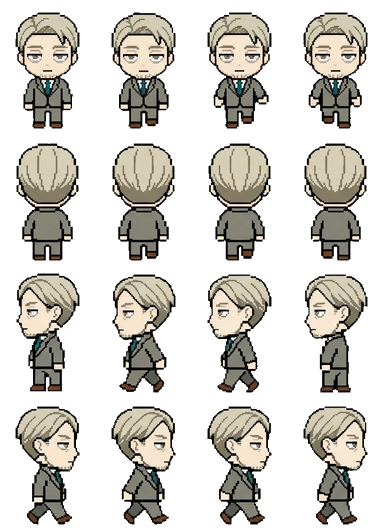
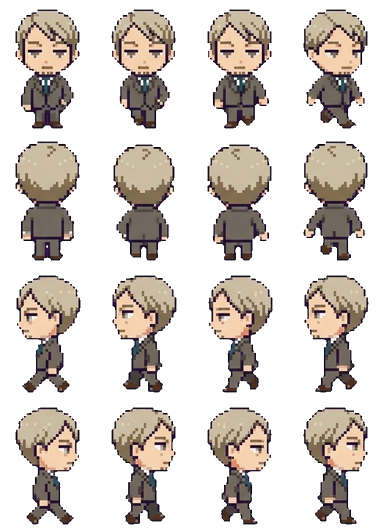
Redraw Chiro Heart in the shared art style
Claude-Session: https://claude.ai/code/session_01KaPsBYLrtbRfMYNG2xeBCK

diff --git a/docs/app.js b/docs/app.js
@@ -75,7 +75,7 @@ function spr(cat, k, col, sc) {
   return `<div class="clip" style="width:${it[2] * sc}px;height:${it[3] * sc}px;POS"><img class="px" src="assets/decor/${cat}.png" alt="" style="width:${S.sw * sc}px;height:${S.sh * sc}px;margin-left:${-col * S.cw * sc}px;margin-top:${-i * S.ch * sc}px"></div>`;
 }
 const icon = (k, sz) => `<span class="itm" style="width:${sz}px;height:${sz}px"><img class="px" src="assets/ui/items.png" alt="" style="width:${IT.length * sz}px;height:${sz}px;margin-left:${-ITM[k].i * sz}px"></span>`;
-const face = (id, w) => { const s = w / 96; return `<img class="px" src="assets/ch/${id}.webp?v=47" alt="" style="position:absolute;width:${384 * s}px;height:${528 * s}px;left:${-(96 * s - w) / 2}px;top:0;max-width:none">`; };
+const face = (id, w) => { const s = w / 96; return `<img class="px" src="assets/ch/${id}.webp?v=48" alt="" style="position:absolute;width:${384 * s}px;height:${528 * s}px;left:${-(96 * s - w) / 2}px;top:0;max-width:none">`; };
 
 // ---------- 저장 ----------
 let fb = null, user = null, S = null, saveT = null;
@@ -143,7 +143,7 @@ function sleepHTML(id, r, dy) {
   const pos = r.a && r.a[0] === 'bed' ? 'left:3%;bottom:20%' : r.b && r.b[0] === 'bed' ? 'right:3%;bottom:20%' : 'left:calc(50% - 44px);bottom:6%';
   const s = 36 / 96;
   return `<div style="position:absolute;width:88px;height:56px;${pos};z-index:${dy ? 4 : 5};${dy ? `transform:translate(12px,${dy}px)` : ''}"><div style="position:absolute;inset:0;filter:brightness(.22)">
-    <div style="position:absolute;left:11px;top:1px;width:36px;height:50px;overflow:hidden;transform:rotate(-90deg)"><img class="px" src="assets/ch/${id}.webp?v=47" alt="" style="width:${384 * s}px;height:${528 * s}px;max-width:none;margin-top:${-132 * s}px"></div>
+    <div style="position:absolute;left:11px;top:1px;width:36px;height:50px;overflow:hidden;transform:rotate(-90deg)"><img class="px" src="assets/ch/${id}.webp?v=48" alt="" style="width:${384 * s}px;height:${528 * s}px;max-width:none;margin-top:${-132 * s}px"></div>
     <div style="position:absolute;left:19px;top:19px;width:67px;height:29px;border:2px solid var(--ink);border-radius:8px 6px 4px 4px;background:#8ccff5;background-image:repeating-linear-gradient(90deg,transparent 0 10px,rgba(255,255,255,.5) 10px 13px)"></div></div>
     ${dy ? '' : '<span class="emo" style="left:8px;top:-22px;color:#5b6bd6">Z z z</span>'}</div>`;
 }
@@ -153,8 +153,8 @@ function roomHTML(id, o, scale) {
     <div class="floor" style="background-color:${PAL[r.fc][1]};background-image:${tileUrl('floor', r.fl)}"></div>
     ${slot('deco', r.dc, 'left:6%;top:6%')}${slot('furn', r.a, 'left:3%;bottom:20%')}${slot('furn', r.b, 'right:3%;bottom:20%')}${slot('prop', r.pr, 'left:28%;bottom:4%;z-index:2')}
     ${id && o.sleeping && g ? sleepHTML(g, r, -16) : ''}${id && o.sleeping ? sleepHTML(id, r) : ''}${id && o.job ? `<div style="position:absolute;left:50%;top:38%;transform:translateX(-50%);z-index:5;background:#fff;border:3px solid var(--ink);border-radius:10px;padding:6px 10px;font-size:11px;text-align:center;line-height:1.5"><img src="assets/ui/ic_job.png" alt="" style="width:18px;vertical-align:-4px"> ${WORK[id] ? WORK[id][1] : esc(JOB_NAME[id]) + ' 알바 중'}${g ? `<br><small>${esc(nameOf(g))}도 같이</small>` : ''}<br><b id="jobleft">${timeLeft(o.job.until)}</b></div>` : ''}
-    ${id ? `<div class="shadow" id="shd" ${o.sleeping || o.job ? 'style="display:none"' : ''}></div><div class="man" id="man" ${o.sleeping || o.job ? 'style="display:none"' : ''}><img class="px" src="assets/ch/${id}.webp?v=47" alt="${esc(nameOf(id))}"></div><span class="emo" id="emo" hidden></span><span class="mumble" id="mum" hidden></span>` : ''}
-    ${g ? `<div class="shadow" id="gshd" ${hideG}></div><div class="man" id="gman" ${hideG}><img class="px" src="assets/ch/${g}.webp?v=47" alt="${esc(nameOf(g))}"></div><span class="emo" id="gemo" hidden></span><span class="mumble gmum" id="gmum" hidden></span>` : ''}
+    ${id ? `<div class="shadow" id="shd" ${o.sleeping || o.job ? 'style="display:none"' : ''}></div><div class="man" id="man" ${o.sleeping || o.job ? 'style="display:none"' : ''}><img class="px" src="assets/ch/${id}.webp?v=48" alt="${esc(nameOf(id))}"></div><span class="emo" id="emo" hidden></span><span class="mumble" id="mum" hidden></span>` : ''}
+    ${g ? `<div class="shadow" id="gshd" ${hideG}></div><div class="man" id="gman" ${hideG}><img class="px" src="assets/ch/${g}.webp?v=48" alt="${esc(nameOf(g))}"></div><span class="emo" id="gemo" hidden></span><span class="mumble gmum" id="gmum" hidden></span>` : ''}
     ${o.sleeping ? `<div class="night"></div><div class="sleepleft">쿨쿨 · 일어나기까지 <b id="sleepleft">${timeLeft(wakeAt(o)).replace(' 남음', '')}</b></div>` : ''}
   </div>`;
 }
@@ -167,7 +167,7 @@ function meterHTML(o) {
 const ic = (act, img, label, pressed) => `<button class="ic" data-act="${act}" ${pressed ? 'aria-pressed="true"' : ''}><img src="assets/ui/ic_${img}.png?v=2" alt="">${label}</button>`;
 
 let dropStyle = null; const cheat = {};
-const APP_V = 119, COUPONS = { NINOGUYA: 3000 };
+const APP_V = 120, COUPONS = { NINOGUYA: 3000 };
 // 쿠폰 입력 정리: 한글 자판 상태로 친 글자(ㅜㅑㅜㅐ혀ㅛㅁ)도 영어 자판 글자로 바꾸고, 대소문자·띄어쓰기·마침표는 무시해요
 const KEY = { ㄱ: 'r', ㄲ: 'R', ㄴ: 's', ㄷ: 'e', ㄸ: 'E', ㄹ: 'f', ㅁ: 'a', ㅂ: 'q', ㅃ: 'Q', ㅅ: 't', ㅆ: 'T', ㅇ: 'd', ㅈ: 'w', ㅉ: 'W', ㅊ: 'c', ㅋ: 'z', ㅌ: 'x', ㅍ: 'v', ㅎ: 'g',
   ㅏ: 'k', ㅐ: 'o', ㅑ: 'i', ㅒ: 'O', ㅓ: 'j', ㅔ: 'p', ㅕ: 'u', ㅖ: 'P', ㅗ: 'h', ㅘ: 'hk', ㅙ: 'ho', ㅚ: 'hl', ㅛ: 'y', ㅜ: 'n', ㅝ: 'nj', ㅞ: 'np', ㅟ: 'nl', ㅠ: 'b', ㅡ: 'm', ㅢ: 'ml', ㅣ: 'l',
@@ -407,7 +407,7 @@ function startTrip(k) {
   if (tg) lines[1] = `${nameOf(tg)}: ${withHim(sub(pick(GLX(tg).trip), o, c.n), tg)}`;
   const n = (FR[id] || [4, 4, 4, 4])[3], el = document.createElement('div'); el.className = 'tripview';
   el.innerHTML = `<div class="tsay"> </div><div class="tstage" style="background-image:url(assets/travel/${k}.png?v=2)"><div class="tplace">${esc(c.n)}</div>
-    <div class="twalker"><img class="px" src="assets/ch/${id}.webp?v=47" alt=""></div>${tg ? `<div class="twalker tgirl"><img class="px" src="assets/ch/${tg}.webp?v=47" alt=""></div>` : ''}<span class="emo tjoy">♪</span></div>
+    <div class="twalker"><img class="px" src="assets/ch/${id}.webp?v=48" alt=""></div>${tg ? `<div class="twalker tgirl"><img class="px" src="assets/ch/${tg}.webp?v=48" alt=""></div>` : ''}<span class="emo tjoy">♪</span></div>
     <div class="tbar"><i></i></div><button class="btn white tskip" data-tskip="1">바로 돌아오기</button>`;
   document.body.appendChild(el);
   const gimg = el.querySelector('.tgirl img'), gn = tg ? (FR[tg] || [4, 4, 4, 4])[3] : 1;
@@ -636,7 +636,7 @@ setInterval(() => { if (S && user) { tickTime(); save(); } }, 60000);
     if (nv > APP_V && !location.search.includes('u=' + nv)) { location.replace(location.pathname + '?u=' + nv); return; }
   } catch { }
   app.innerHTML = '<div class="start"><div class="egg"><div class="scr"></div></div><div class="note">불러오는 중....</div></div>';
-  const [c, t, f, it, mu, ct, tv, gl, sts] = await Promise.all(['data/chars.json', 'data/talk.json', 'data/frames.json', 'data/items.json', 'data/mumble.json', 'data/countries.json', 'data/travel.json', 'data/girls.json', 'data/sets.json'].map(u => fetch(u + '?v=119').then(r => r.ok ? r.json() : {})));
+  const [c, t, f, it, mu, ct, tv, gl, sts] = await Promise.all(['data/chars.json', 'data/talk.json', 'data/frames.json', 'data/items.json', 'data/mumble.json', 'data/countries.json', 'data/travel.json', 'data/girls.json', 'data/sets.json'].map(u => fetch(u + '?v=120').then(r => r.ok ? r.json() : {})));
   CH = c; CHM = Object.fromEntries(c.map(x => [x.id, x])); TALK = t; FR = f; IT = it; ITM = Object.fromEntries(it.map(x => [x.k, x])); MUM = mu; CTRY = ct; TRV = tv; GL = Array.isArray(gl) ? gl : []; SETS = Array.isArray(sts) ? sts : []; GLM = Object.fromEntries(GL.map(x => [x.id, x]));
   try { await initFirebase(); } catch (e) { console.warn('Firebase 연결 실패, 기기 저장으로', e); fb = null; }
   if (fb) {

diff --git a/docs/index.html b/docs/index.html
@@ -18,6 +18,6 @@
 <main id="app" aria-live="polite"></main>
 <div id="toast" role="status" hidden></div>
 <script src="firebase-config.js?v=3"></script>
-<script type="module" src="app.js?v=119"></script>
+<script type="module" src="app.js?v=120"></script>
 </body>
 </html>
